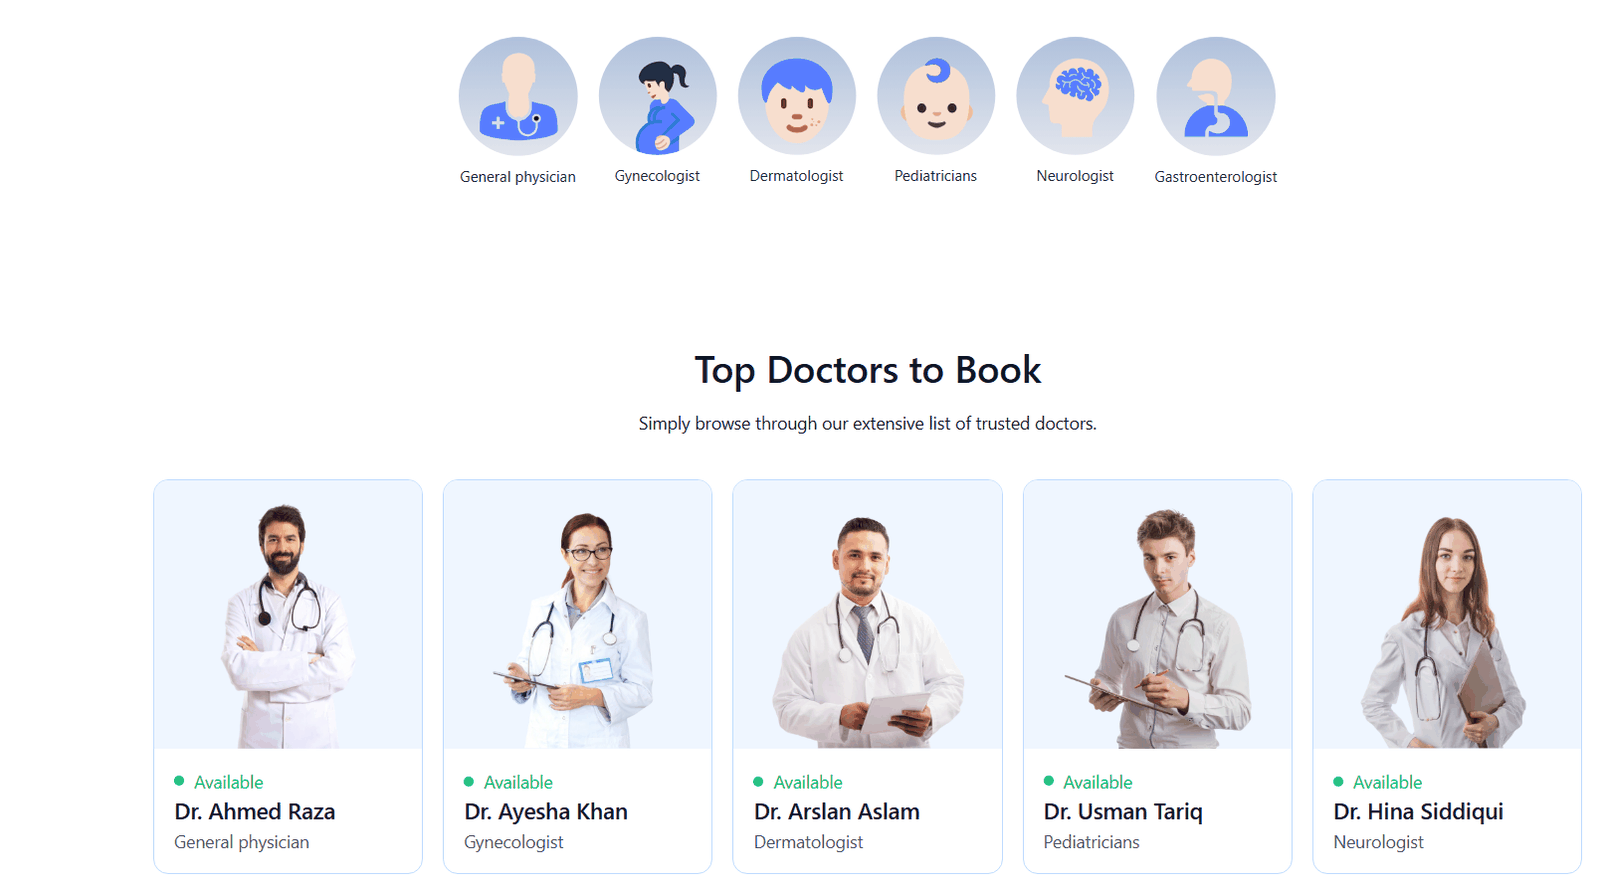
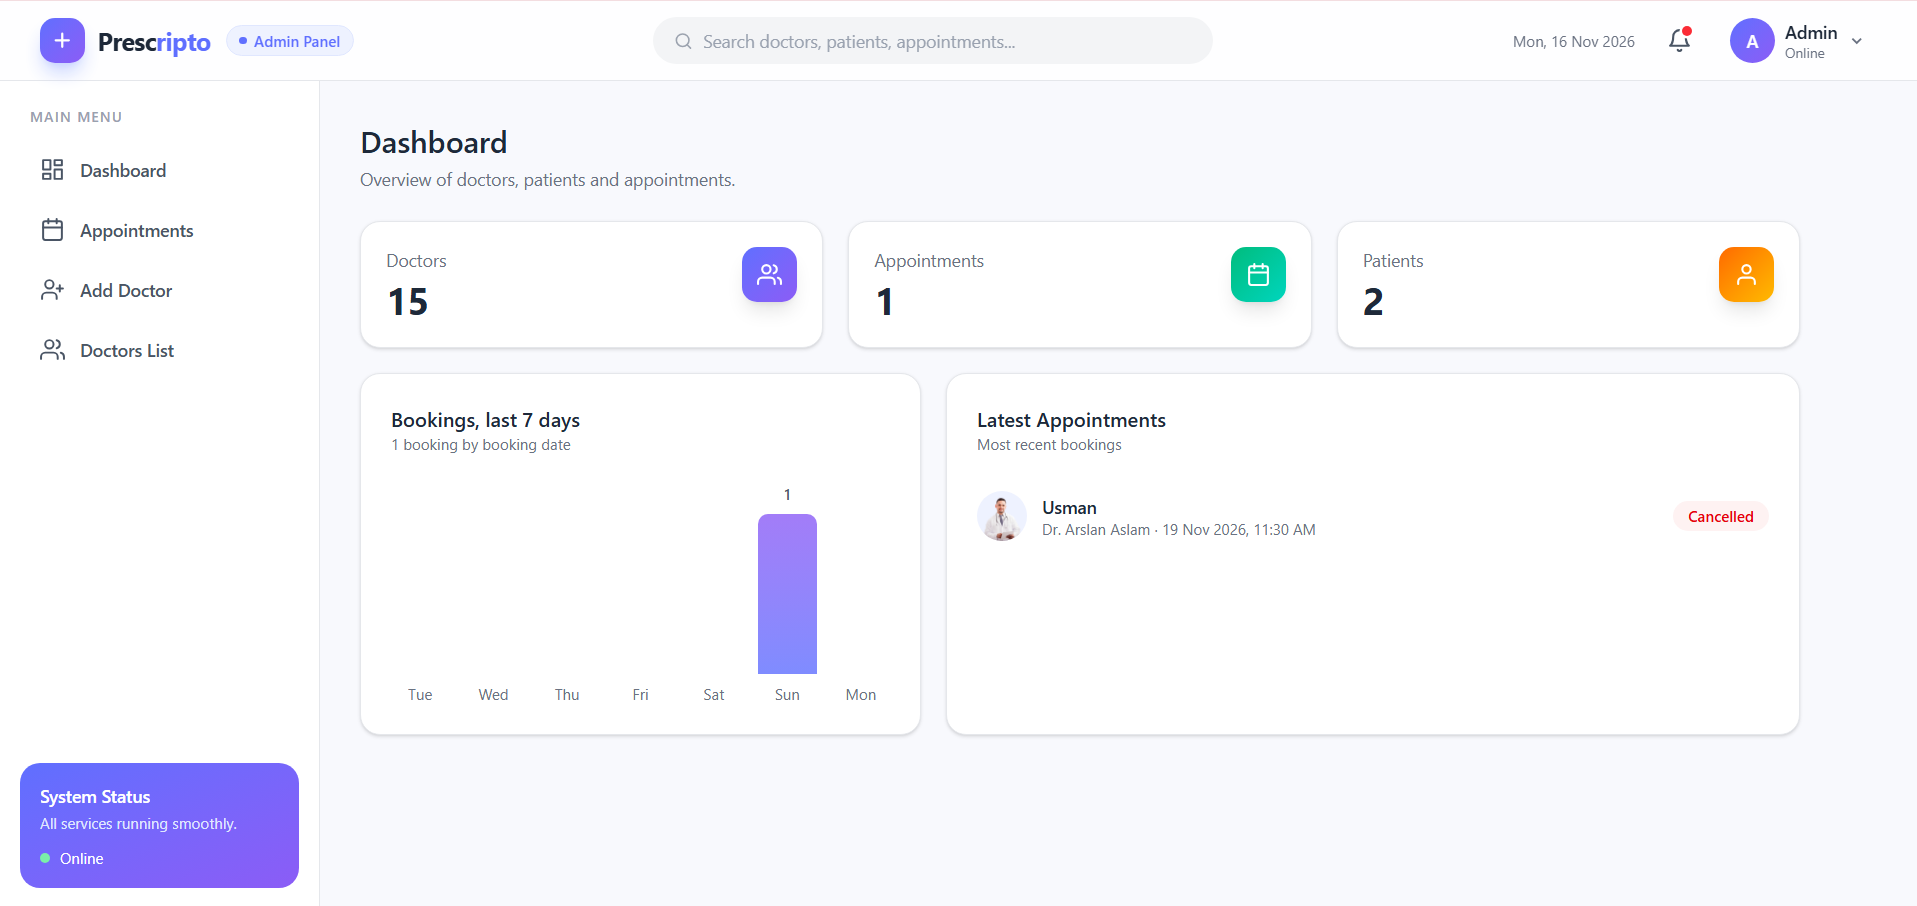
feat(portfolio): add doctor appointment system project

diff --git a/client/src/data/projects.js b/client/src/data/projects.js
@@ -166,24 +166,30 @@ export const projects = [
     id: 'P07',
     slug: 'doctor-appointment',
     summary: {
-      problem: 'Patients need a simple way to find a doctor and book a slot without calling the clinic.',
-      solution: 'A MERN app where patients browse doctors by speciality and book, and doctors and admins manage schedules.',
-      result: 'In progress: the patient pages are built, the backend is being built next.',
+      problem: 'Patients need a simple way to find a doctor and book a slot without calling the clinic, and double bookings must never happen.',
+      solution: 'A MERN app with three roles (patient, admin, doctor). Booking reserves the slot in one atomic database update and validates every slot on the server.',
+      result: 'Live on Vercel: patient site, admin panel and doctor panel, with role-based JWT auth checked by a cross-role token test.',
     },
     title: 'Doctor Appointment Booking System',
-    short: 'Patients book, doctors manage schedules, admins oversee.',
+    short: 'Full-stack booking platform for patients, doctors and admins.',
     category: ['Full-Stack'],
-    status: 'In Progress',
-    tech: ['MERN'],
+    status: 'Completed',
+    tech: ['React', 'Tailwind CSS', 'Node.js', 'Express', 'MongoDB', 'Cloudinary', 'Vercel'],
     github: `${GITHUB}/doctor-appointment-system-mern`,
-    live: null, // TODO
+    live: 'https://doctor-appointment-frontend-azure.vercel.app',
     image: null,
     featured: false,
-    overview: undefined, // TODO
-    problem: undefined, // TODO
-    howItWorks: undefined, // TODO: ['step 1', 'step 2', …]
-    challenges: undefined, // TODO
-    results: undefined, // TODO
+    overview: 'A full-stack appointment platform with patient, admin and doctor roles. I started from a tutorial base and extended it myself: role-based JWT auth, atomic slot booking, slot validation, auto-logout on token expiry, a real 7-day bookings chart on the admin dashboard, a complete doctor panel and a security audit with fixes.',
+    problem: undefined,
+    howItWorks: [
+      'Patients browse doctors by speciality and pick a free slot in the next 7 days.',
+      'The server validates the slot (10:00 to 21:00, 30-minute steps, not in the past) and reserves it in a single database update, so two people cannot take the same slot.',
+      'Admins manage doctors and appointments and see real bookings per day; doctors complete or cancel their own appointments.',
+      'Separate patient, admin and doctor tokens carry a role claim, and every route rejects tokens of the wrong role.',
+    ],
+    challenges: 'A security audit found that a doctor token was accepted on patient routes. I added a role claim and a role check, then re-ran a cross-role token test (476 checks) to confirm it. Six simultaneous requests for one slot now give exactly one booking.',
+    results: 'Deployed as three Vercel projects (patient site, admin and doctor panel, API). Admin panel: https://doctor-appointment-admin-ten.vercel.app. Payments are intentionally left as a future improvement.',
+    askQuestions: ['How does it stop double booking?', 'How does role-based auth work?', 'What did you build beyond the tutorial?'],
   },
   {
     id: 'P08',

diff --git a/client/src/data/architecture.js b/client/src/data/architecture.js
@@ -168,11 +168,11 @@ export const architecture = {
   },
 
   'doctor-appointment': {
-    note: 'The frontend is built; the backend is in progress.',
+    note: 'Three roles share one Express API; every route checks the role in the token.',
     nodes: [
       { id: 'patient', label: 'Patient pages (React)', tag: 'React', x: 12, y: 28, note: 'Patients browse doctors by speciality and book a slot.' },
       { id: 'panel', label: 'Doctor & admin panel (React)', tag: 'React', x: 12, y: 76, note: 'Doctors manage their schedule; admins oversee everything.' },
-      { id: 'api', label: 'Express API', tag: 'Express', x: 50, y: 52, note: 'REST endpoints for doctors and bookings (in progress).' },
+      { id: 'api', label: 'Express API', tag: 'Express', x: 50, y: 52, note: 'REST endpoints with role-based JWT auth and atomic slot booking.' },
       { id: 'db', label: 'MongoDB', tag: 'MongoDB', x: 86, y: 52, note: 'Stores doctors, patients and appointments.' },
     ],
     edges: [
